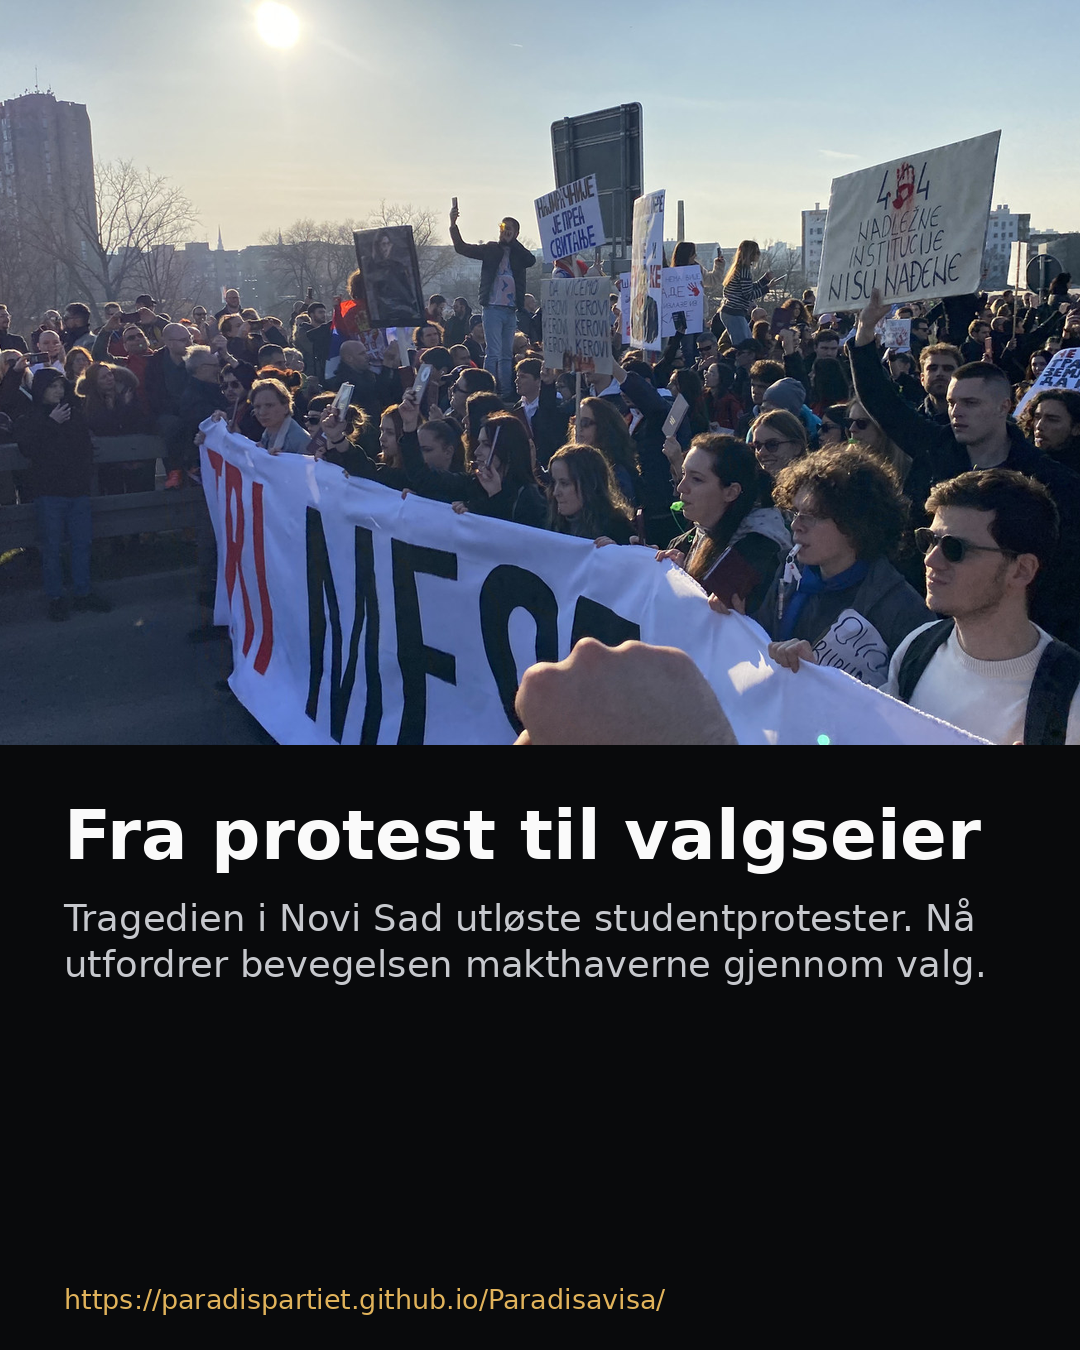
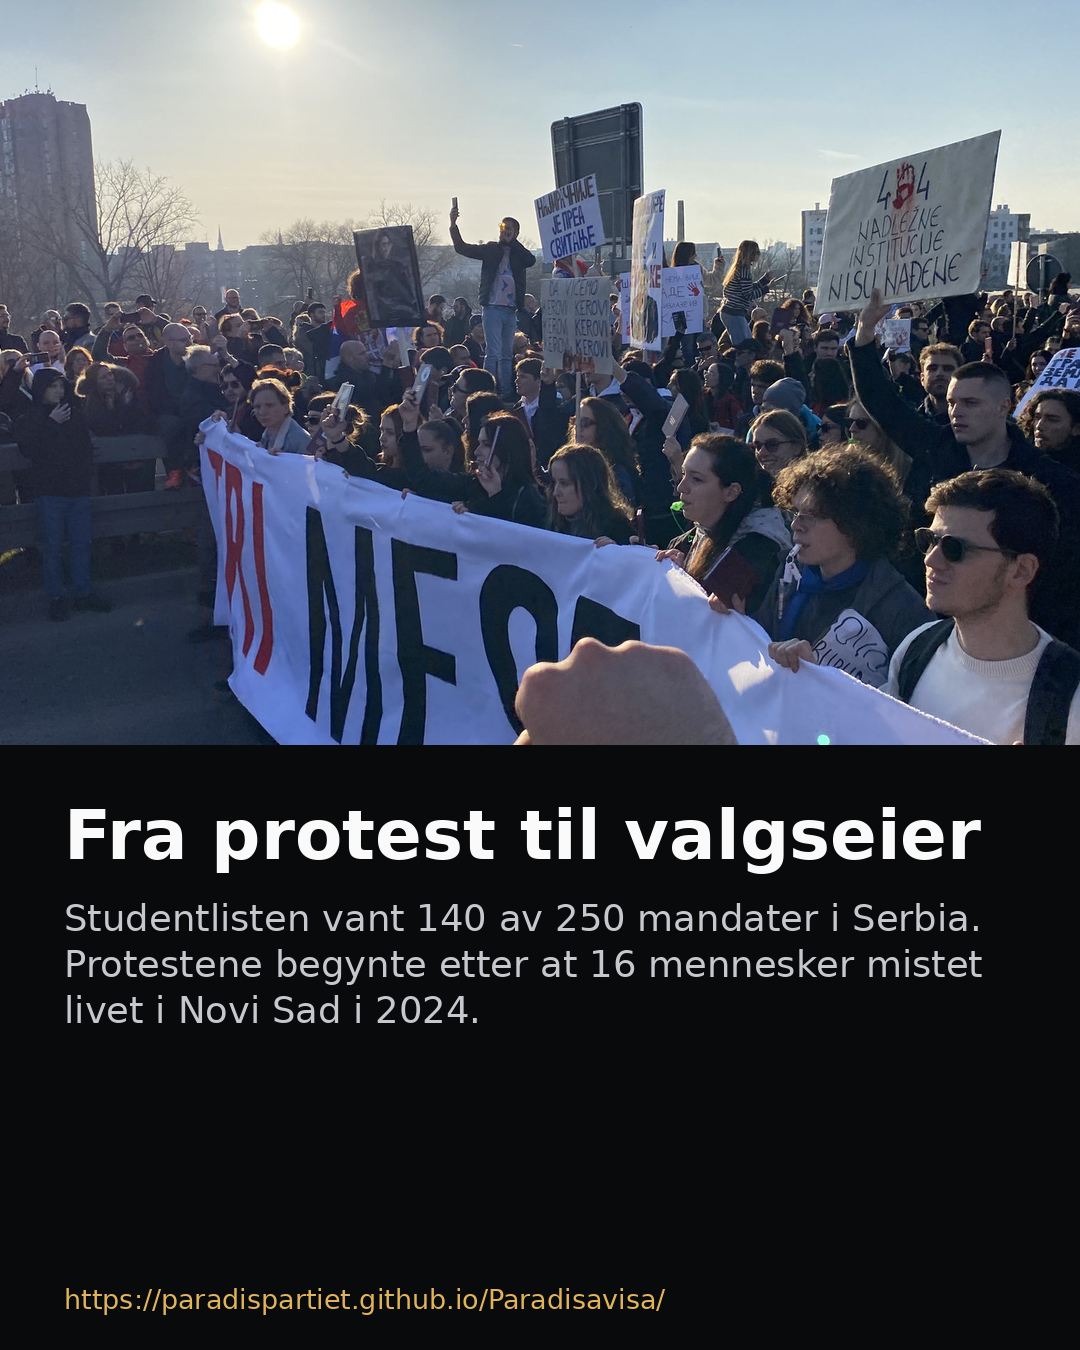
Instagram: oppdater Serbia-tekstkort etter bekreftet valgresultat (#143)
* Rett Instagram-kort for Serbia med bekreftet mandatfordeling

* Kjør Instagram-kortbygger på egne Instagram-grener

* Instagram: seks tekstkort generert fra godkjente bilder [skip ci]

---------

Changed region(s): [[0.0611, 0.6533, 0.9167, 0.7778]]

diff --git a/scripts/generer-instagramkort.py b/scripts/generer-instagramkort.py
@@ -46,7 +46,7 @@ POSTS = [
         "id": "serbia-studentbevegelse",
         "image": "Bilder/Artikler/serbia-studentprotest-novi-sad-2025-arkivfoto.jpg",
         "title": "Fra protest til valgseier",
-        "excerpt": "Tragedien i Novi Sad utløste studentprotester. Nå utfordrer bevegelsen makthaverne gjennom valg.",
+        "excerpt": "Studentlisten vant 140 av 250 mandater i Serbia. Protestene begynte etter at 16 mennesker mistet livet i Novi Sad i 2024.",
         "ig_url": "https://www.instagram.com/p/DfVmncljfSB/",
         "center": [0.49, 0.5],
         "image_credit": "Arkivfoto fra studentprotest i 2025 – ikke fra valget. Lisens i kildefil.",
